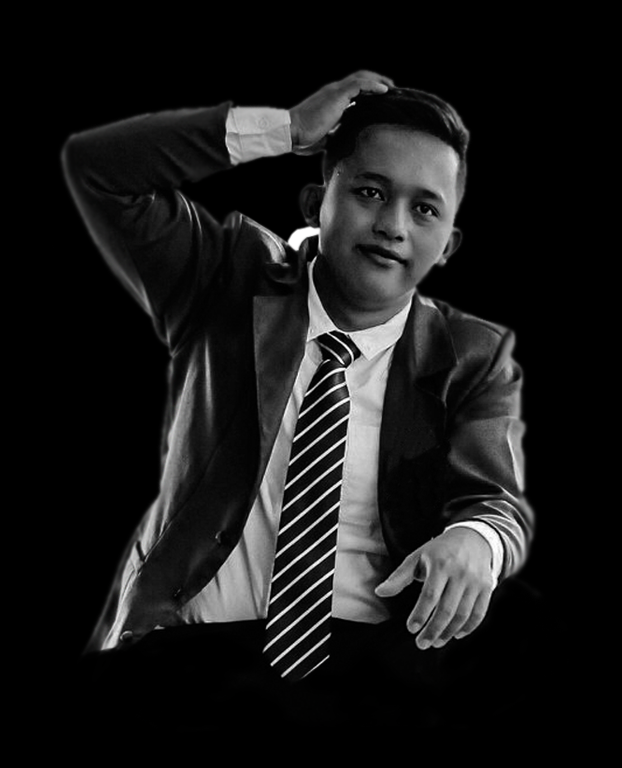
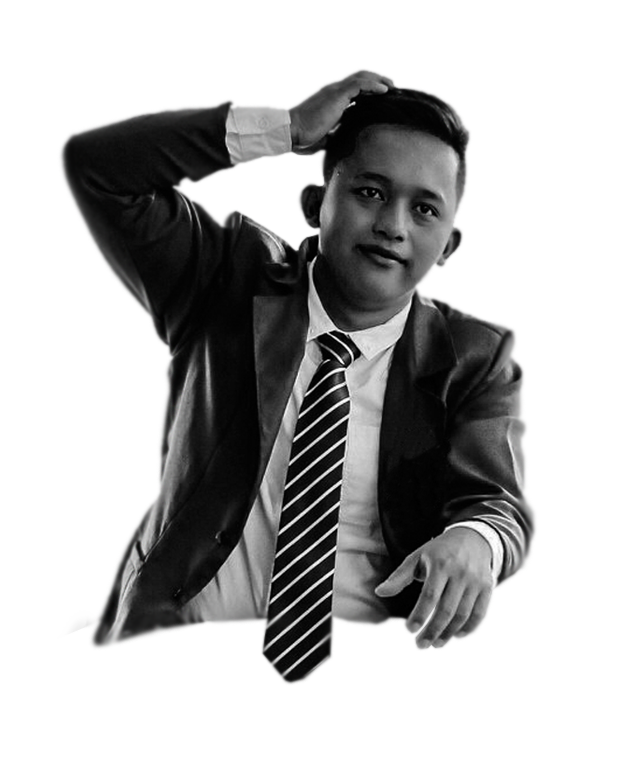
added social media links and modified background color

diff --git a/src/components/Home.tsx b/src/components/Home.tsx
@@ -1,23 +1,48 @@
 import React from 'react';
-import Image from 'next/image';
+import Link from 'next/link';
 
 export default function Home() {
   return (
     //  bg-gradient-to-tr from-black to to-slate-800
-    <div className='flex flex-col w-full h-screen sm:pl-12 sm:flex-row'>
+    <div className='flex flex-col w-full h-screen
+     sm:pl-12 sm:flex-row'>
         <div className='flex sm:w-5/12'>
             {/* Image */}
             <img src="/adon.png" alt="Profile" />
         </div>
         <div className='flex flex-col justify-center items-center text-white font-sans sm:w-7/12 gap-5'>
             <div className='flex gap-2'>
-                <p>fb</p>
-                <p>linked in</p>
+
+                <Link href='https://www.facebook.com/profile.php?id=100078105906500' target='_blank' className='border-2 border-white rounded-md p-2'>
+                    <svg xmlns="http://www.w3.org/2000/svg" width="16" height="16" fill="currentColor" className="bi bi-facebook" viewBox="0 0 16 16">
+                        <path d="M16 8.049c0-4.446-3.582-8.05-8-8.05C3.58 0-.002 3.603-.002 8.05c0 4.017 2.926 7.347 6.75 7.951v-5.625h-2.03V8.05H6.75V6.275c0-2.017 1.195-3.131 3.022-3.131.876 0 1.791.157 1.791.157v1.98h-1.009c-.993 0-1.303.621-1.303 1.258v1.51h2.218l-.354 2.326H9.25V16c3.824-.604 6.75-3.934 6.75-7.951z"/>
+                    </svg>
+                </Link>
+                <Link href='https://www.linkedin.com/in/adonis-jr-suico-0036891b2/' target='_blank' className='border-2 border-white rounded-md p-2'>
+                    <svg xmlns="http://www.w3.org/2000/svg" width="16" height="16" fill="currentColor" className="bi bi-linkedin" viewBox="0 0 16 16">
+                        <path d="M0 1.146C0 .513.526 0 1.175 0h13.65C15.474 0 16 .513 16 1.146v13.708c0 .633-.526 1.146-1.175 1.146H1.175C.526 16 0 15.487 0 14.854V1.146zm4.943 12.248V6.169H2.542v7.225h2.401zm-1.2-8.212c.837 0 1.358-.554 1.358-1.248-.015-.709-.52-1.248-1.342-1.248-.822 0-1.359.54-1.359 1.248 0 .694.521 1.248 1.327 1.248h.016zm4.908 8.212V9.359c0-.216.016-.432.08-.586.173-.431.568-.878 1.232-.878.869 0 1.216.662 1.216 1.634v3.865h2.401V9.25c0-2.22-1.184-3.252-2.764-3.252-1.274 0-1.845.7-2.165 1.193v.025h-.016a5.54 5.54 0 0 1 .016-.025V6.169h-2.4c.03.678 0 7.225 0 7.225h2.4z"/>
+                    </svg>
+                </Link>
+                <Link href='mailto:adonisjr.suico@gmail.com' className='border-2 border-white rounded-md p-2'>
+                    <svg xmlns="http://www.w3.org/2000/svg" width="16" height="16" fill="currentColor" className="bi bi-envelope" viewBox="0 0 16 16">
+                        <path d="M0 4a2 2 0 0 1 2-2h12a2 2 0 0 1 2 2v8a2 2 0 0 1-2 2H2a2 2 0 0 1-2-2V4Zm2-1a1 1 0 0 0-1 1v.217l7 4.2 7-4.2V4a1 1 0 0 0-1-1H2Zm13 2.383-4.708 2.825L15 11.105V5.383Zm-.034 6.876-5.64-3.471L8 9.583l-1.326-.795-5.64 3.47A1 1 0 0 0 2 13h12a1 1 0 0 0 .966-.741ZM1 11.105l4.708-2.897L1 5.383v5.722Z"/>
+                    </svg>
+                </Link>
+                <Link href='https://twitter.com/SuicoAdonis' target='_blank' className='border-2 border-white rounded-md p-2'>
+                    <svg xmlns="http://www.w3.org/2000/svg" width="16" height="16" fill="currentColor" className="bi bi-twitter" viewBox="0 0 16 16">
+                        <path d="M5.026 15c6.038 0 9.341-5.003 9.341-9.334 0-.14 0-.282-.006-.422A6.685 6.685 0 0 0 16 3.542a6.658 6.658 0 0 1-1.889.518 3.301 3.301 0 0 0 1.447-1.817 6.533 6.533 0 0 1-2.087.793A3.286 3.286 0 0 0 7.875 6.03a9.325 9.325 0 0 1-6.767-3.429 3.289 3.289 0 0 0 1.018 4.382A3.323 3.323 0 0 1 .64 6.575v.045a3.288 3.288 0 0 0 2.632 3.218 3.203 3.203 0 0 1-.865.115 3.23 3.23 0 0 1-.614-.057 3.283 3.283 0 0 0 3.067 2.277A6.588 6.588 0 0 1 .78 13.58a6.32 6.32 0 0 1-.78-.045A9.344 9.344 0 0 0 5.026 15z"/>
+                    </svg>
+                </Link>
+                <Link href='https://www.instagram.com/adonisjr_suico/' target='_blank' className='border-2 border-white rounded-md p-2'>
+                    <svg xmlns="http://www.w3.org/2000/svg" width="16" height="16" fill="currentColor" className="bi bi-instagram" viewBox="0 0 16 16">
+                        <path d="M8 0C5.829 0 5.556.01 4.703.048 3.85.088 3.269.222 2.76.42a3.917 3.917 0 0 0-1.417.923A3.927 3.927 0 0 0 .42 2.76C.222 3.268.087 3.85.048 4.7.01 5.555 0 5.827 0 8.001c0 2.172.01 2.444.048 3.297.04.852.174 1.433.372 1.942.205.526.478.972.923 1.417.444.445.89.719 1.416.923.51.198 1.09.333 1.942.372C5.555 15.99 5.827 16 8 16s2.444-.01 3.298-.048c.851-.04 1.434-.174 1.943-.372a3.916 3.916 0 0 0 1.416-.923c.445-.445.718-.891.923-1.417.197-.509.332-1.09.372-1.942C15.99 10.445 16 10.173 16 8s-.01-2.445-.048-3.299c-.04-.851-.175-1.433-.372-1.941a3.926 3.926 0 0 0-.923-1.417A3.911 3.911 0 0 0 13.24.42c-.51-.198-1.092-.333-1.943-.372C10.443.01 10.172 0 7.998 0h.003zm-.717 1.442h.718c2.136 0 2.389.007 3.232.046.78.035 1.204.166 1.486.275.373.145.64.319.92.599.28.28.453.546.598.92.11.281.24.705.275 1.485.039.843.047 1.096.047 3.231s-.008 2.389-.047 3.232c-.035.78-.166 1.203-.275 1.485a2.47 2.47 0 0 1-.599.919c-.28.28-.546.453-.92.598-.28.11-.704.24-1.485.276-.843.038-1.096.047-3.232.047s-2.39-.009-3.233-.047c-.78-.036-1.203-.166-1.485-.276a2.478 2.478 0 0 1-.92-.598 2.48 2.48 0 0 1-.6-.92c-.109-.281-.24-.705-.275-1.485-.038-.843-.046-1.096-.046-3.233 0-2.136.008-2.388.046-3.231.036-.78.166-1.204.276-1.486.145-.373.319-.64.599-.92.28-.28.546-.453.92-.598.282-.11.705-.24 1.485-.276.738-.034 1.024-.044 2.515-.045v.002zm4.988 1.328a.96.96 0 1 0 0 1.92.96.96 0 0 0 0-1.92zm-4.27 1.122a4.109 4.109 0 1 0 0 8.217 4.109 4.109 0 0 0 0-8.217zm0 1.441a2.667 2.667 0 1 1 0 5.334 2.667 2.667 0 0 1 0-5.334z"/>
+                    </svg>
+                </Link>
             </div>
-            <div className='flex flex-col items-center'>
-                <p>Hi I'm</p>
-                <h1>Adonis</h1>
-                <p>Web Developer</p>
+            <div className='flex flex-col items-center py-5'>
+                <p>Welcome!</p>
+                <h1>I'm Adonis Jr Suico</h1>
+                <p>Fullstack Developer</p>
             </div>
             <div>
                 <button className='bg-blue-700 rounded-md p-2 hover:bg-blue-800 duration-200'>

diff --git a/src/components/Navbar.tsx b/src/components/Navbar.tsx
@@ -11,7 +11,7 @@ export default function Navbar() {
   const scrollPosition = useScrollPosition();
   console.log(scrollPosition)
   return (
-    <nav className={classNames(scrollPosition > 0 ? 'bg-white text-black' : 'shadow-none text-white',
+    <nav className={classNames(scrollPosition > 0 ? 'bg-white text-black' : 'shadow-none bg-transparent',
      'flex flex-col justify-between items-center transition sticky top-0 z-100 duration-1000 sm:pl-24 sm:flex-row sm:pr-12 sm:h-24')}>
       <div className='font-mono text-blue-600 text-xl'>
         Adonis

diff --git a/src/app/page.tsx b/src/app/page.tsx
@@ -5,7 +5,7 @@ import About from "@/components/About";
 
 export default function page() {
   return (
-    <main className="min-h-screen bg-black text-white">
+    <main className="min-h-screen bg-gradient-to-br from-black to to-gray-500 text-white">
       <Navbar />
       <div id="home">
           <Home />
